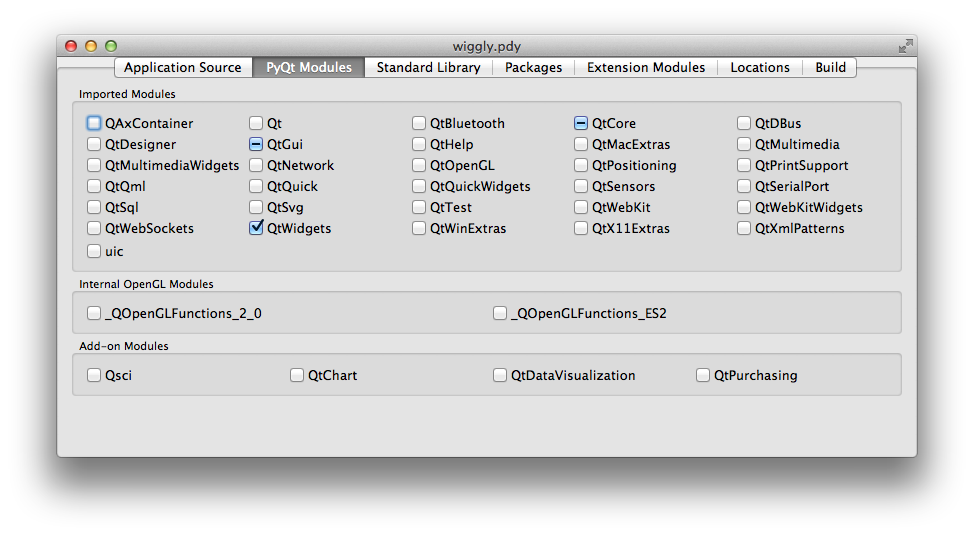
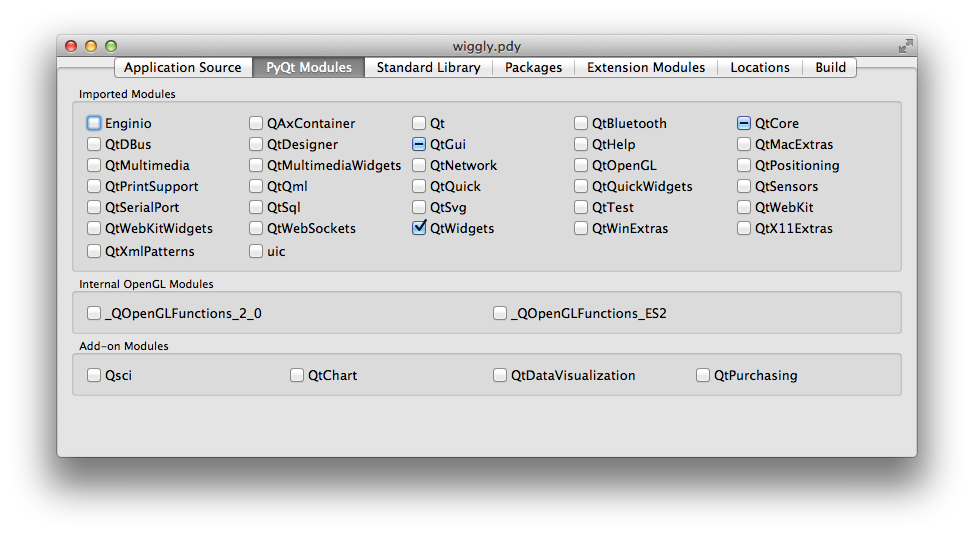
Added support for the Enginio module.

diff --git a/pyqtdeploy/metadata/pyqt5.py b/pyqtdeploy/metadata/pyqt5.py
@@ -158,6 +158,11 @@ pyqt5_metadata = {
                                     gui=False,
                                     qt5=['xmlpatterns', 'network']),
 
+    'Enginio':                  PyQt5Metadata(
+                                    deps=['QtNetwork'],
+                                    gui=False,
+                                    qt5=['enginio']),
+
     'uic':                      PyQt5Metadata(
                                     deps=['QtWidgets']),
 
